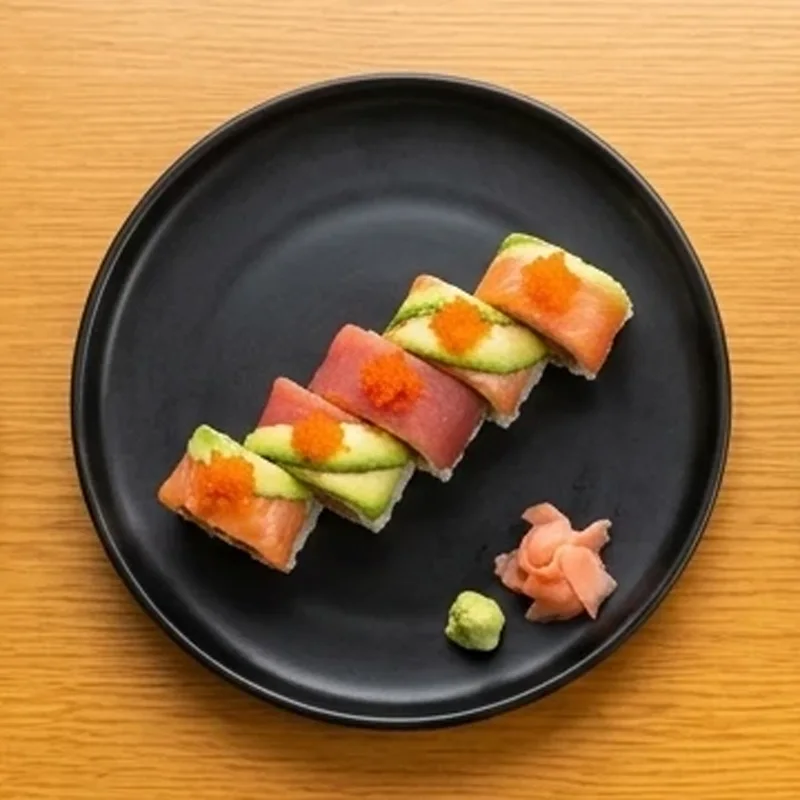
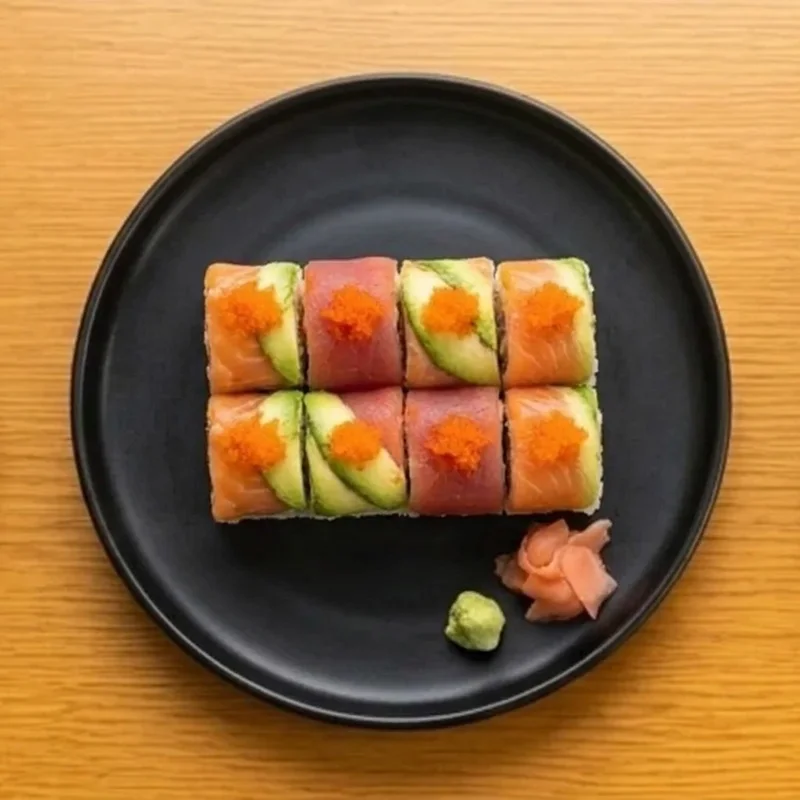
Rolls 57, 58, 60: piece counts and look as in the restaurant menu
Claude-Session: https://claude.ai/code/session_01FUVkhEtpQvfhdoqL6ZWBso

Changed region(s): [[0.1875, 0.2812, 0.8125, 0.8438], [0.0938, 0.3125, 0.1875, 0.4688]]

diff --git a/staff/index.html b/staff/index.html
@@ -280,7 +280,7 @@ const API = new URLSearchParams(location.search).get('api') || 'https://cafeupnh
 const VENUE = 'sushigo';
 const POLL_MS = 6000;
 /* dish names by menu number (filled from menu-data.js by tools/build_staff.py) */
-const IMGS = {"186": "d186.webp?v=a20aa473", "210": "d210.webp?v=a943506b", "187": "d187.webp?v=1badcb44", "52": "d52.webp?v=ac59e4e9", "53": "d53.webp?v=2c0ac19c", "54": "d54.webp?v=eab18dd9", "55": "d55.webp?v=7f5644ff", "18": "d18.webp?v=e5817ae8", "19": "d19.webp?v=9f5806cd", "20": "d20.webp?v=f94c2fe5", "21": "d21.webp?v=8108b086", "22": "d22.webp?v=3048be24", "9": "d9.webp?v=b5d30888", "10": "d10.webp?v=52efe0f9", "11": "d11.webp?v=978e4b28", "12": "d12.webp?v=e7273fc0", "13": "d13.webp?v=30b27e16", "14": "d14.webp?v=1446b738", "15": "d15.webp?v=29f66d05", "180": "d180.webp?v=0f438634", "16": "d16.webp?v=c0357a00", "17": "d17.webp?v=0f87eb02", "32": "d32.webp?v=3c840480", "33": "d33.webp?v=2506588e", "34": "d34.webp?v=9d0364af", "35": "d35.webp?v=9e72601e", "36": "d36.webp?v=89c1beae", "37": "d37.webp?v=839d1ea1", "38": "d38.webp?v=ad71e8e0", "39": "d39.webp?v=8ddd849e", "40": "d40.webp?v=5f22025c", "41": "d41.webp?v=d1d522c8", "42": "d42.webp?v=b93ca088", "202": "d202.webp?v=1ab0f3d1", "43": "d43.webp?v=91d3084c", "207": "d207.webp?v=2cb9385f", "208": "d208.webp?v=769a3015", "44": "d44.webp?v=7ca1de35", "56": "d56.webp?v=965f24e4", "57": "d57.webp?v=37aee247", "59": "d59.webp?v=8bb2137d", "58": "d58.webp?v=c22aa7a1", "60": "d60.webp?v=4a3edf45", "62": "d62.webp?v=d72b8b27", "61": "d61.webp?v=063d7a2d", "48": "d48.webp?v=d94c4e30", "170": "d170.webp?v=f50653a2", "49": "d49.webp?v=9775f207", "50": "d50.webp?v=56887285", "51": "d51.webp?v=c34d3efe", "45": "d45.webp?v=b2ccba79", "46": "d46.webp?v=158c345a", "47": "d47.webp?v=a9963afb", "181": "d181.webp?v=94984a7e", "182": "d182.webp?v=d5208821", "183": "d183.webp?v=da481454", "185": "d185.webp?v=edba128e", "184": "d184.webp?v=3b01019c", "81": "d81.webp?v=6cc40a24", "82": "d82.webp?v=ed0c97b3", "83": "d83.webp?v=598272e2", "84": "d84.webp?v=908daff8", "200": "d200.webp?v=0f75c608", "85": "d85.webp?v=315ca908", "86": "d86.webp?v=65f37c75", "87": "d87.webp?v=5f1e8d5c", "109": "dr_beer.webp?v=110c074f", "110": "dr_beer.webp?v=110c074f", "111": "dr_heineken.webp?v=cf836dae", "112": "dr_soft.webp?v=ed093acc", "113": "dr_soft.webp?v=ed093acc", "176": "dr_soft.webp?v=ed093acc", "177": "dr_soft.webp?v=ed093acc", "115": "dr_soft.webp?v=ed093acc", "116": "dr_soft.webp?v=ed093acc", "178": "dr_water.webp?v=e8fe1b27", "114": "dr_water.webp?v=e8fe1b27", "179": "dr_coco.webp?v=97f03e8b"};   /* original photo of each dish: ../img/<name>.webp */
+const IMGS = {"186": "d186.webp?v=a20aa473", "210": "d210.webp?v=a943506b", "187": "d187.webp?v=1badcb44", "52": "d52.webp?v=ac59e4e9", "53": "d53.webp?v=2c0ac19c", "54": "d54.webp?v=eab18dd9", "55": "d55.webp?v=7f5644ff", "18": "d18.webp?v=e5817ae8", "19": "d19.webp?v=9f5806cd", "20": "d20.webp?v=f94c2fe5", "21": "d21.webp?v=8108b086", "22": "d22.webp?v=3048be24", "9": "d9.webp?v=b5d30888", "10": "d10.webp?v=52efe0f9", "11": "d11.webp?v=978e4b28", "12": "d12.webp?v=e7273fc0", "13": "d13.webp?v=30b27e16", "14": "d14.webp?v=1446b738", "15": "d15.webp?v=29f66d05", "180": "d180.webp?v=0f438634", "16": "d16.webp?v=c0357a00", "17": "d17.webp?v=0f87eb02", "32": "d32.webp?v=3c840480", "33": "d33.webp?v=2506588e", "34": "d34.webp?v=9d0364af", "35": "d35.webp?v=9e72601e", "36": "d36.webp?v=89c1beae", "37": "d37.webp?v=839d1ea1", "38": "d38.webp?v=ad71e8e0", "39": "d39.webp?v=8ddd849e", "40": "d40.webp?v=5f22025c", "41": "d41.webp?v=d1d522c8", "42": "d42.webp?v=b93ca088", "202": "d202.webp?v=1ab0f3d1", "43": "d43.webp?v=91d3084c", "207": "d207.webp?v=2cb9385f", "208": "d208.webp?v=769a3015", "44": "d44.webp?v=7ca1de35", "56": "d56.webp?v=965f24e4", "57": "d57.webp?v=467516ff", "59": "d59.webp?v=8bb2137d", "58": "d58.webp?v=c860682f", "60": "d60.webp?v=a3e6f60b", "62": "d62.webp?v=d72b8b27", "61": "d61.webp?v=063d7a2d", "48": "d48.webp?v=d94c4e30", "170": "d170.webp?v=f50653a2", "49": "d49.webp?v=9775f207", "50": "d50.webp?v=56887285", "51": "d51.webp?v=c34d3efe", "45": "d45.webp?v=b2ccba79", "46": "d46.webp?v=158c345a", "47": "d47.webp?v=a9963afb", "181": "d181.webp?v=94984a7e", "182": "d182.webp?v=d5208821", "183": "d183.webp?v=da481454", "185": "d185.webp?v=edba128e", "184": "d184.webp?v=3b01019c", "81": "d81.webp?v=6cc40a24", "82": "d82.webp?v=ed0c97b3", "83": "d83.webp?v=598272e2", "84": "d84.webp?v=908daff8", "200": "d200.webp?v=0f75c608", "85": "d85.webp?v=315ca908", "86": "d86.webp?v=65f37c75", "87": "d87.webp?v=5f1e8d5c", "109": "dr_beer.webp?v=110c074f", "110": "dr_beer.webp?v=110c074f", "111": "dr_heineken.webp?v=cf836dae", "112": "dr_soft.webp?v=ed093acc", "113": "dr_soft.webp?v=ed093acc", "176": "dr_soft.webp?v=ed093acc", "177": "dr_soft.webp?v=ed093acc", "115": "dr_soft.webp?v=ed093acc", "116": "dr_soft.webp?v=ed093acc", "178": "dr_water.webp?v=e8fe1b27", "114": "dr_water.webp?v=e8fe1b27", "179": "dr_coco.webp?v=97f03e8b"};   /* original photo of each dish: ../img/<name>.webp */
 const NAMES = {"9":["Tobiko, flying fish roe","Тобико, икра летучей рыбы","Trứng cá chuồn (Tobiko)",95000],"10":["Salmon “udon” sashimi","Сашими «удон» из лосося","Sashimi sake udon (cá hồi sợi)",199000],"11":["Tuna sashimi (maguro)","Сашими из тунца (магуро)","Sashimi cá ngừ",109000],"12":["Herring with roe sashimi (komochi nishin)","Сашими из сельди с икрой (комочи нишин)","Sashimi cá trích ép trứng",99000],"13":["Octopus sashimi (tako)","Сашими из осьминога (тако)","Sashimi bạch tuộc",95000],"14":["Salmon sashimi (sake)","Сашими из лосося (сакэ)","Sashimi cá hồi",119000],"15":["Salmon belly sashimi (sake hara)","Сашими из брюшка лосося (сакэ хара)","Sashimi bụng cá hồi",129000],"16":["Salmon carpaccio","Карпаччо из лосося","Cá hồi Carpaccio",119000],"17":["Tuna carpaccio","Карпаччо из тунца","Cá ngừ Carpaccio",99000],"18":["Sashimi set, 3 kinds","Сашими-сет, 3 вида","Set 3 loại Sashimi",165000],"19":["Salmon sashimi set","Сашими-сет из лосося","Set cá hồi Sashimi",449000],"20":["Sashimi set, 5 kinds, small (15 pcs)","Сашими-сет, 5 видов, малый (15 шт.)","Set 5 loại Sashimi nhỏ (15 miếng)",269000],"21":["Sashimi set, 6 kinds","Сашими-сет, 6 видов","Set Sashimi 6 loại",299000],"22":["Chef’s special sashimi set (30 pcs)","Сашими-сет от шефа (30 шт.)","Set Sashimi đặc biệt (30 miếng)",449000],"32":["Crab stick nigiri (kani)","Нигири с крабовой палочкой (кани)","Nigiri thanh cua",20000],"33":["Salmon nigiri (sake)","Нигири с лососем (сакэ)","Nigiri cá hồi",49000],"34":["Tuna nigiri (maguro)","Нигири с тунцом (магуро)","Nigiri cá ngừ",45000],"35":["Torched salmon nigiri with teriyaki (sake aburi)","Нигири с обожжённым лососем и терияки (сакэ абури)","Nigiri cá hồi khò teri",49000],"36":["Octopus nigiri (tako)","Нигири с осьминогом (тако)","Nigiri bạch tuộc",45000],"37":["Herring with roe nigiri (nishin)","Нигири с сельдью и икрой (нишин)","Nigiri cá trích ép trứng",45000],"38":["Salmon belly nigiri (sake hara)","Нигири с брюшком лосося (сакэ хара)","Nigiri bụng cá hồi",55000],"39":["Torched tuna nigiri with teriyaki (maguro aburi)","Нигири с обожжённым тунцом и терияки (магуро абури)","Nigiri cá ngừ khò teri",45000],"40":["Tuna nigiri with cheese","Нигири с тунцом и сыром","Nigiri cá ngừ phô mai",49000],"41":["Salmon nigiri with cheese","Нигири с лососем и сыром","Nigiri cá hồi phô mai",55000],"42":["Grilled eel nigiri (unagi)","Нигири с жареным угрём (унаги)","Nigiri lươn nướng",55000],"43":["Gunkan with flying fish roe (tobiko)","Гункан с икрой летучей рыбы (тобико)","Gunkan trứng cá chuồn",45000],"44":["Salmon gunkan with tobiko","Гункан из лосося с тобико","Gunkan cá hồi trứng cá chuồn",65000],"45":["Salmon tempura roll (hosomaki)","Тонкий ролл с лососем в темпуре","Cuộn cá hồi chiên tempura",65000],"46":["Seafood tempura roll","Ролл с морепродуктами в темпуре","Cuộn hải sản chiên tempura",75000],"47":["Spicy seafood tempura roll","Острый ролл с морепродуктами в темпуре","Cuộn hải sản cay chiên tempura",75000],"48":["Avocado hosomaki","Хосомаки с авокадо","Hosomaki bơ",30000],"49":["Salmon hosomaki (sake maki)","Хосомаки с лососем (сакэ маки)","Hosomaki cá hồi sống",55000],"50":["Tuna hosomaki (tekka maki)","Хосомаки с тунцом (тэкка маки)","Hosomaki cá ngừ sống",50000],"51":["Crab stick hosomaki (kani maki)","Хосомаки с крабовой палочкой (кани маки)","Hosomaki thanh cua",30000],"52":["Sushi & sashimi set A","Сет суши и сашими A","Set Sushi & Sashimi A",195000],"53":["Sushi & sashimi set B","Сет суши и сашими B","Set Sushi & Sashimi B",249000],"54":["Sushi set Matsu (16 pcs)","Суши-сет «Мацу» (16 шт.)","Set sushi nhỏ (16 miếng)",195000],"55":["Sushi set Take (20 pcs)","Суши-сет «Такэ» (20 шт.)","Set sushi lớn (20 miếng)",299000],"56":["Seafood futomaki (kaisen futo maki)","Футомаки с морепродуктами (кайсэн футо маки)","Cuộn futo hải sản sống",85000],"57":["Rainbow seafood roll","Ролл «Радуга» с морепродуктами","Cuộn hải sản cầu vồng",92000],"58":["Soft-shell crab roll with raw salmon","Ролл с крабом в мягком панцире и лососем","Cuộn cua lột phủ cá hồi sống",139000],"59":["Soft-shell crab roll with raw tuna","Ролл с крабом в мягком панцире и тунцом","Cuộn cua lột phủ cá ngừ sống",125000],"60":["Spicy tuna maki","Ролл с тунцом и острым соусом","Cuộn cá ngừ sống sốt cay",90000],"61":["Mixed seafood California roll","Ролл «Калифорния» с морепродуктами","Cuộn hải sản tổng hợp (California)",89000],"62":["Norwegian salmon roll","Ролл с норвежским лососем","Cuộn cá hồi Nauy",95000],"81":["Ebi tempura, 5 shrimp","Креветки темпура, 5 шт.","Tôm chiên tempura (5 con)",95000],"82":["Mixed tempura","Темпура ассорти","Tempura tổng hợp (2 tôm & rau củ)",76000],"83":["Tori karaage","Тори караагэ","Gà chiên kiểu Nhật",85000],"84":["Tori katsu","Тори кацу","Gà chiên xù",89000],"85":["Beef katsu","Говядина кацу","Bò Oushi chiên furai",169000],"86":["Maguro katsu","Магуро кацу","Cá ngừ chiên furai",99000],"87":["Sake katsu","Сякэ кацу (лосось)","Cá hồi chiên furai",140000],"109":["Tiger beer, can","Пиво Tiger, банка","Bia Tiger (lon)",20000],"110":["Saigon beer, can","Пиво Saigon, банка","Bia Saigon (lon)",20000],"111":["Heineken, can","Пиво Heineken, банка","Bia Heineken (lon)",24000],"112":["Coca-Cola, can","Coca-Cola, банка","Coca-Cola (lon)",15000],"113":["Pepsi, can","Pepsi, банка","Pepsi (lon)",15000],"114":["Still water, bottle","Вода без газа, бутылка","Nước suối (chai)",10000],"115":["Sprite, can","Sprite, банка","Sprite (lon)",15000],"116":["Revive salted lemon","Revive с солёным лимоном","Revive chanh muối",15000],"170":["Cucumber hosomaki (kappa maki)","Хосомаки с огурцом (каппа маки)","Hosomaki dưa leo",30000],"176":["Pepsi Zero, can","Pepsi Zero, банка","Pepsi Zero (lon)",18000],"177":["Pepsi No Sugar Lemon, can","Pepsi без сахара со вкусом лимона, банка","Pepsi không đường vị chanh (lon)",17000],"178":["Soda water, can","Содовая, банка","Soda (lon)",20000],"179":["Coconut water, can","Кокосовая вода, банка","Nước dừa (lon)",25000],"180":["White fish sashimi","Сашими из белой рыбы","Sashimi cá trắng",119000],"181":["Hot roll with tuna & cheese","Горячий ролл с тунцом и сыром","Cuộn cá ngừ & phô mai chiên",79000],"182":["Hot roll with salmon & cheese","Горячий ролл с лососем и сыром","Cuộn cá hồi & phô mai chiên",99000],"183":["Hot roll with shrimp & cheese","Горячий ролл с креветкой и сыром","Cuộn tôm & phô mai chiên",68000],"184":["Special futomaki seafood hot roll","Фирменный горячий футомаки с морепродуктами","Cuộn hải sản đặc biệt chiên",149000],"185":["Hot roll with seafood & cheese","Горячий ролл с морепродуктами и сыром","Cuộn hải sản & phô mai chiên",99000],"186":["Sushi set C, 8 pcs","Суши-сет C, 8 шт.","Set Sushi C (8 miếng)",169000],"187":["LOVE YOU set (for sharing)","Сет LOVE YOU (на компанию)","Set LOVE YOU",399000],"200":["Soft-shell crab tempura","Краб с мягким панцирем в темпуре","Cua lột chiên tempura",149000],"202":["White fish nigiri","Нигири с белой рыбой","Nigiri cá trắng",55000],"207":["Spicy salmon gunkan","Гункан с острым лососем","Gunkan cá hồi cay",45000],"208":["Torched salmon gunkan","Гункан с обожжённым лососем","Gunkan cá hồi nướng",69000],"210":["Salmon sushi combo","Сет «Лосось комбо»","Set sushi cá hồi combo",199000]}/*NAMES*/;
 
 const L = {

diff --git a/index.html b/index.html
@@ -699,7 +699,7 @@ const ICON={
  fish:'<svg viewBox="0 0 32 32" fill="none" stroke="currentColor" stroke-width="2.2" stroke-linecap="round" stroke-linejoin="round"><path d="M6 16c4-6 10-8 16-6 3 1 5 3 7 6-2 3-4 5-7 6-6 2-12 0-16-6z"/><path d="M6 16l-3-5M6 16l-3 5"/><circle cx="23" cy="14.5" r="1.3" fill="currentColor"/></svg>',
  crab:'<svg viewBox="0 0 32 32" fill="none" stroke="currentColor" stroke-width="2.2" stroke-linecap="round"><ellipse cx="16" cy="19" rx="8" ry="6"/><path d="M8 17l-4-3M8 21l-4 2M24 17l4-3M24 21l4 2M11 13l-3-6M21 13l3-6"/></svg>'
 };
-const IMGV={"d10": "52efe0f9", "d11": "978e4b28", "d12": "e7273fc0", "d13": "30b27e16", "d14": "1446b738", "d15": "29f66d05", "d16": "c0357a00", "d17": "0f87eb02", "d170": "f50653a2", "d18": "e5817ae8", "d180": "0f438634", "d181": "94984a7e", "d182": "d5208821", "d183": "da481454", "d184": "3b01019c", "d185": "edba128e", "d186": "a20aa473", "d187": "1badcb44", "d19": "9f5806cd", "d20": "f94c2fe5", "d200": "0f75c608", "d202": "1ab0f3d1", "d207": "2cb9385f", "d208": "769a3015", "d21": "8108b086", "d210": "a943506b", "d22": "3048be24", "d32": "3c840480", "d33": "2506588e", "d34": "9d0364af", "d35": "9e72601e", "d36": "89c1beae", "d37": "839d1ea1", "d38": "ad71e8e0", "d39": "8ddd849e", "d40": "5f22025c", "d41": "d1d522c8", "d42": "b93ca088", "d43": "91d3084c", "d44": "7ca1de35", "d45": "b2ccba79", "d46": "158c345a", "d47": "a9963afb", "d48": "d94c4e30", "d49": "9775f207", "d50": "56887285", "d51": "c34d3efe", "d52": "ac59e4e9", "d53": "2c0ac19c", "d54": "eab18dd9", "d55": "7f5644ff", "d56": "965f24e4", "d57": "37aee247", "d58": "c22aa7a1", "d59": "8bb2137d", "d60": "4a3edf45", "d61": "063d7a2d", "d62": "d72b8b27", "d81": "6cc40a24", "d82": "ed0c97b3", "d83": "598272e2", "d84": "908daff8", "d85": "315ca908", "d86": "65f37c75", "d87": "5f1e8d5c", "d9": "b5d30888", "dr_beer": "110c074f", "dr_coco": "97f03e8b", "dr_heineken": "cf836dae", "dr_soft": "ed093acc", "dr_water": "e8fe1b27"};
+const IMGV={"d10": "52efe0f9", "d11": "978e4b28", "d12": "e7273fc0", "d13": "30b27e16", "d14": "1446b738", "d15": "29f66d05", "d16": "c0357a00", "d17": "0f87eb02", "d170": "f50653a2", "d18": "e5817ae8", "d180": "0f438634", "d181": "94984a7e", "d182": "d5208821", "d183": "da481454", "d184": "3b01019c", "d185": "edba128e", "d186": "a20aa473", "d187": "1badcb44", "d19": "9f5806cd", "d20": "f94c2fe5", "d200": "0f75c608", "d202": "1ab0f3d1", "d207": "2cb9385f", "d208": "769a3015", "d21": "8108b086", "d210": "a943506b", "d22": "3048be24", "d32": "3c840480", "d33": "2506588e", "d34": "9d0364af", "d35": "9e72601e", "d36": "89c1beae", "d37": "839d1ea1", "d38": "ad71e8e0", "d39": "8ddd849e", "d40": "5f22025c", "d41": "d1d522c8", "d42": "b93ca088", "d43": "91d3084c", "d44": "7ca1de35", "d45": "b2ccba79", "d46": "158c345a", "d47": "a9963afb", "d48": "d94c4e30", "d49": "9775f207", "d50": "56887285", "d51": "c34d3efe", "d52": "ac59e4e9", "d53": "2c0ac19c", "d54": "eab18dd9", "d55": "7f5644ff", "d56": "965f24e4", "d57": "467516ff", "d58": "c860682f", "d59": "8bb2137d", "d60": "a3e6f60b", "d61": "063d7a2d", "d62": "d72b8b27", "d81": "6cc40a24", "d82": "ed0c97b3", "d83": "598272e2", "d84": "908daff8", "d85": "315ca908", "d86": "65f37c75", "d87": "5f1e8d5c", "d9": "b5d30888", "dr_beer": "110c074f", "dr_coco": "97f03e8b", "dr_heineken": "cf836dae", "dr_soft": "ed093acc", "dr_water": "e8fe1b27"};
 const MENU=[
   /* ---------- Sushi sets ---------- */
   {id:'186', cat:'set', vi:'Set Sushi C (8 miếng)', price:169000, img:'d186',
